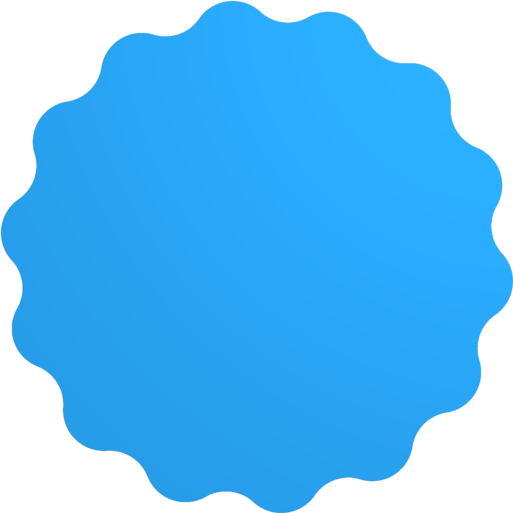
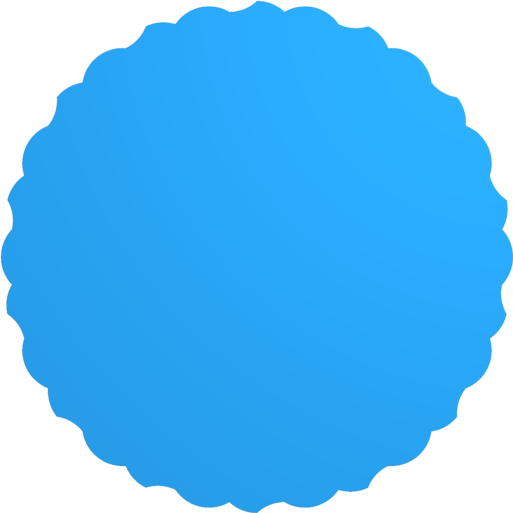
update render py

diff --git a/sdf/d2.py b/sdf/d2.py
@@ -748,16 +748,27 @@ def rounded_cog(outer_r, cog_r, num):
     half_ang = 360/num/4
     b = outer_r - cog_r
     f = sinD(half_ang)*b
+    if (cog_r <= 0) | (outer_r <= 0):
+        raise Exception("rounded_cog: radii must be positive")
+    if cog_r <= f:
+        raise Exception("rounded_cog: cog radius too small")
     outer_center = (b**2-f**2)**0.5+(cog_r**2-f**2)**0.5
-    pts = [[outer_center, 0, cog_r]]
-    s = -1
-    for i in range(1,2*num):
+    #pts = [[outer_center, 0, cog_r]]
+    pts = [[outer_r, 0, cog_r]]
+    s = 1
+    for i in range(0,2*num):
         pts = np.vstack((pts,[
-                outer_center*cosD(i*half_ang*2),
-                outer_center*sinD(i*half_ang*2),
+                outer_center*cosD((i*2+1)*half_ang),
+                outer_center*sinD((i*2+1)*half_ang),
+                s*cog_r]))
+        if i % 2 == 0:
+            pts = np.vstack((pts,[
+                outer_r*cosD((i*2+2)*half_ang),
+                outer_r*sinD((i*2+2)*half_ang),
                 s*cog_r]))
         s = -s
-    pts = round_polygon_smooth_ends(pts, list(range(1,2*num,2)))
+    print(pts)
+    #pts = round_polygon_smooth_ends(pts, list(range(1,3*num,3)))
     return rounded_polygon(pts)
 
 
